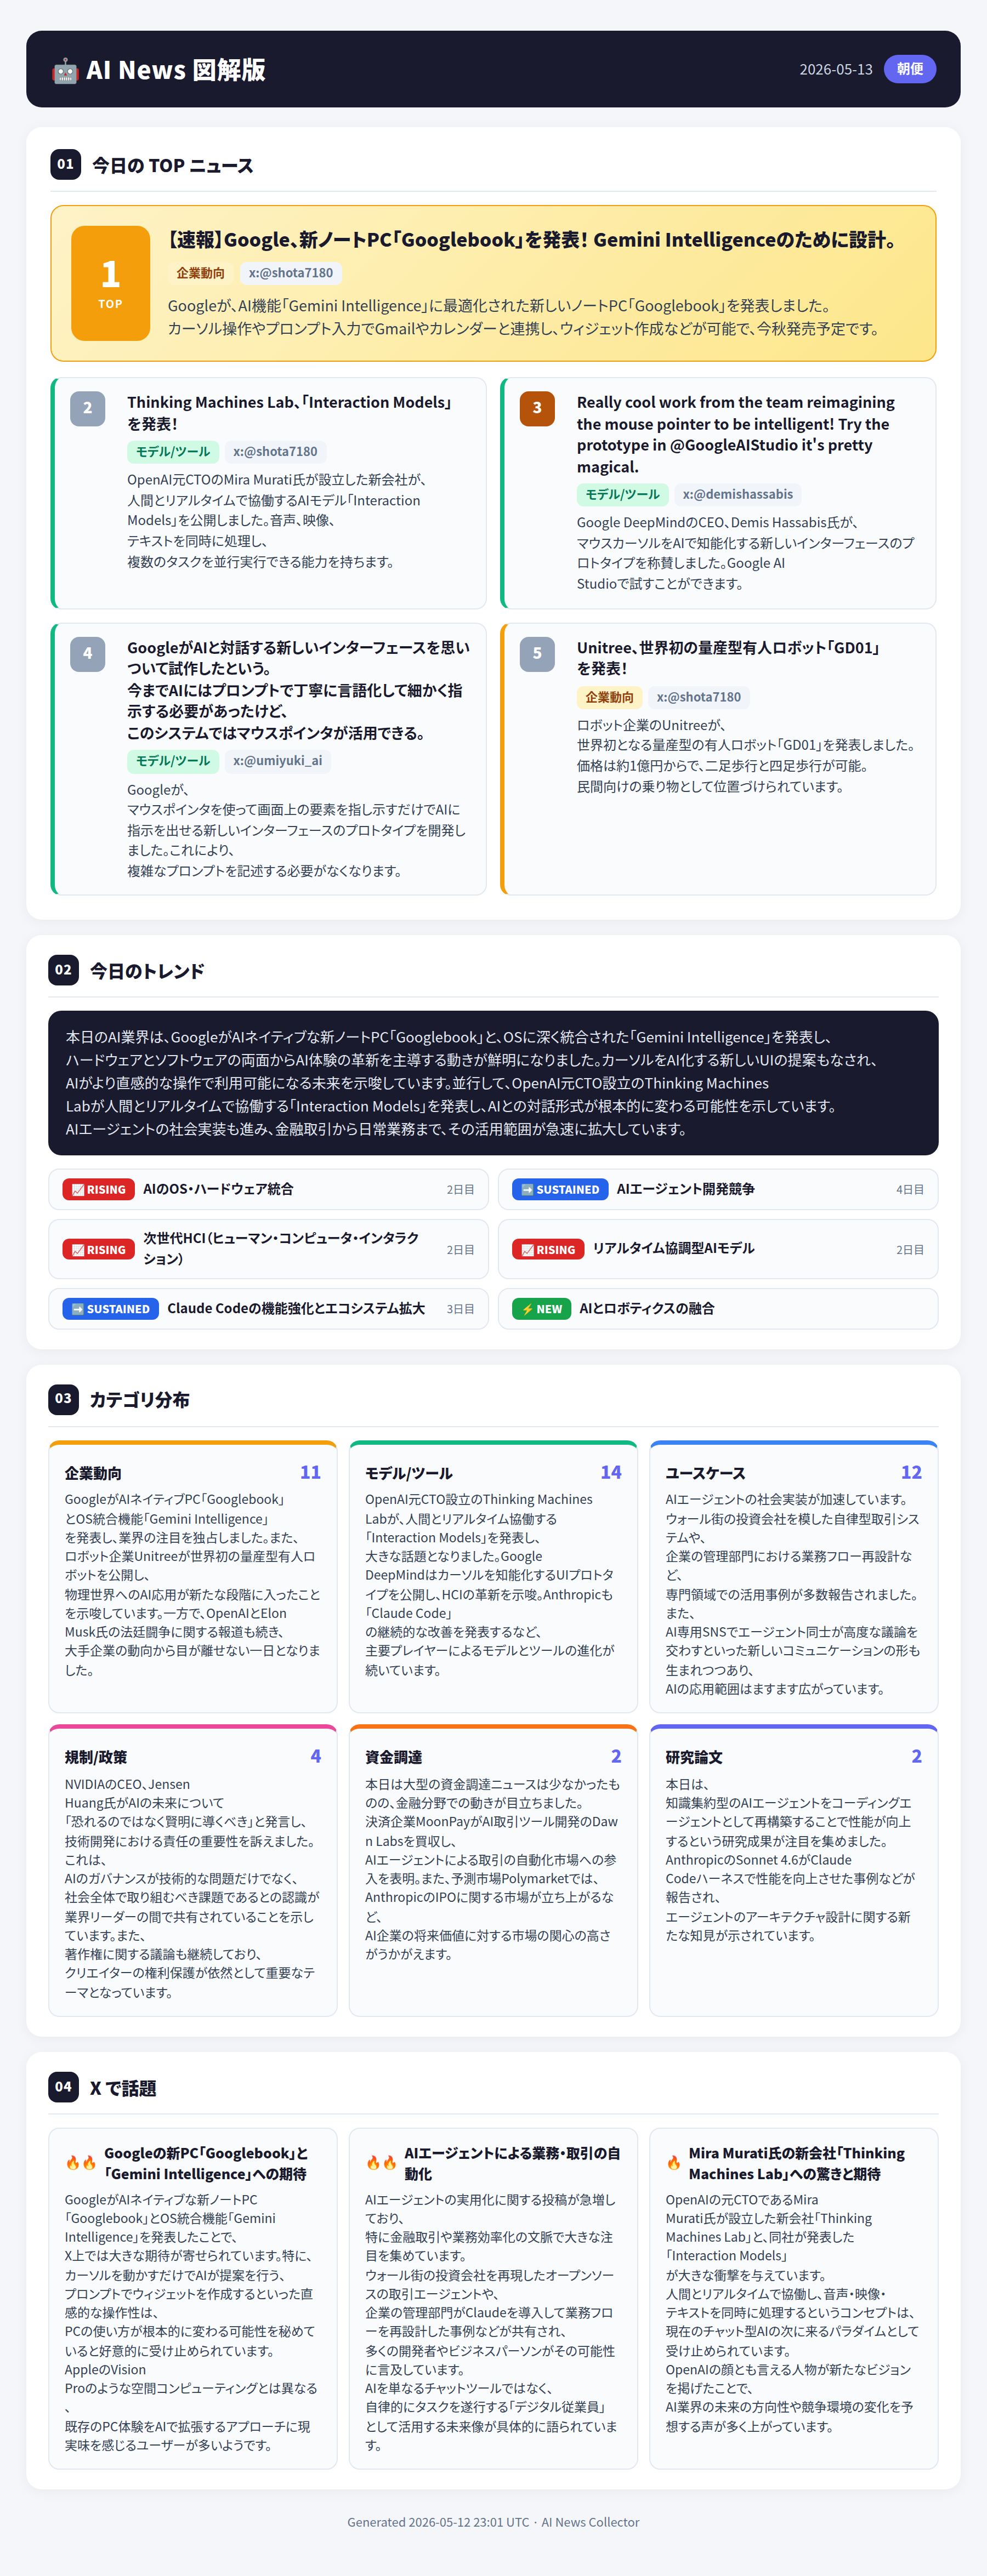
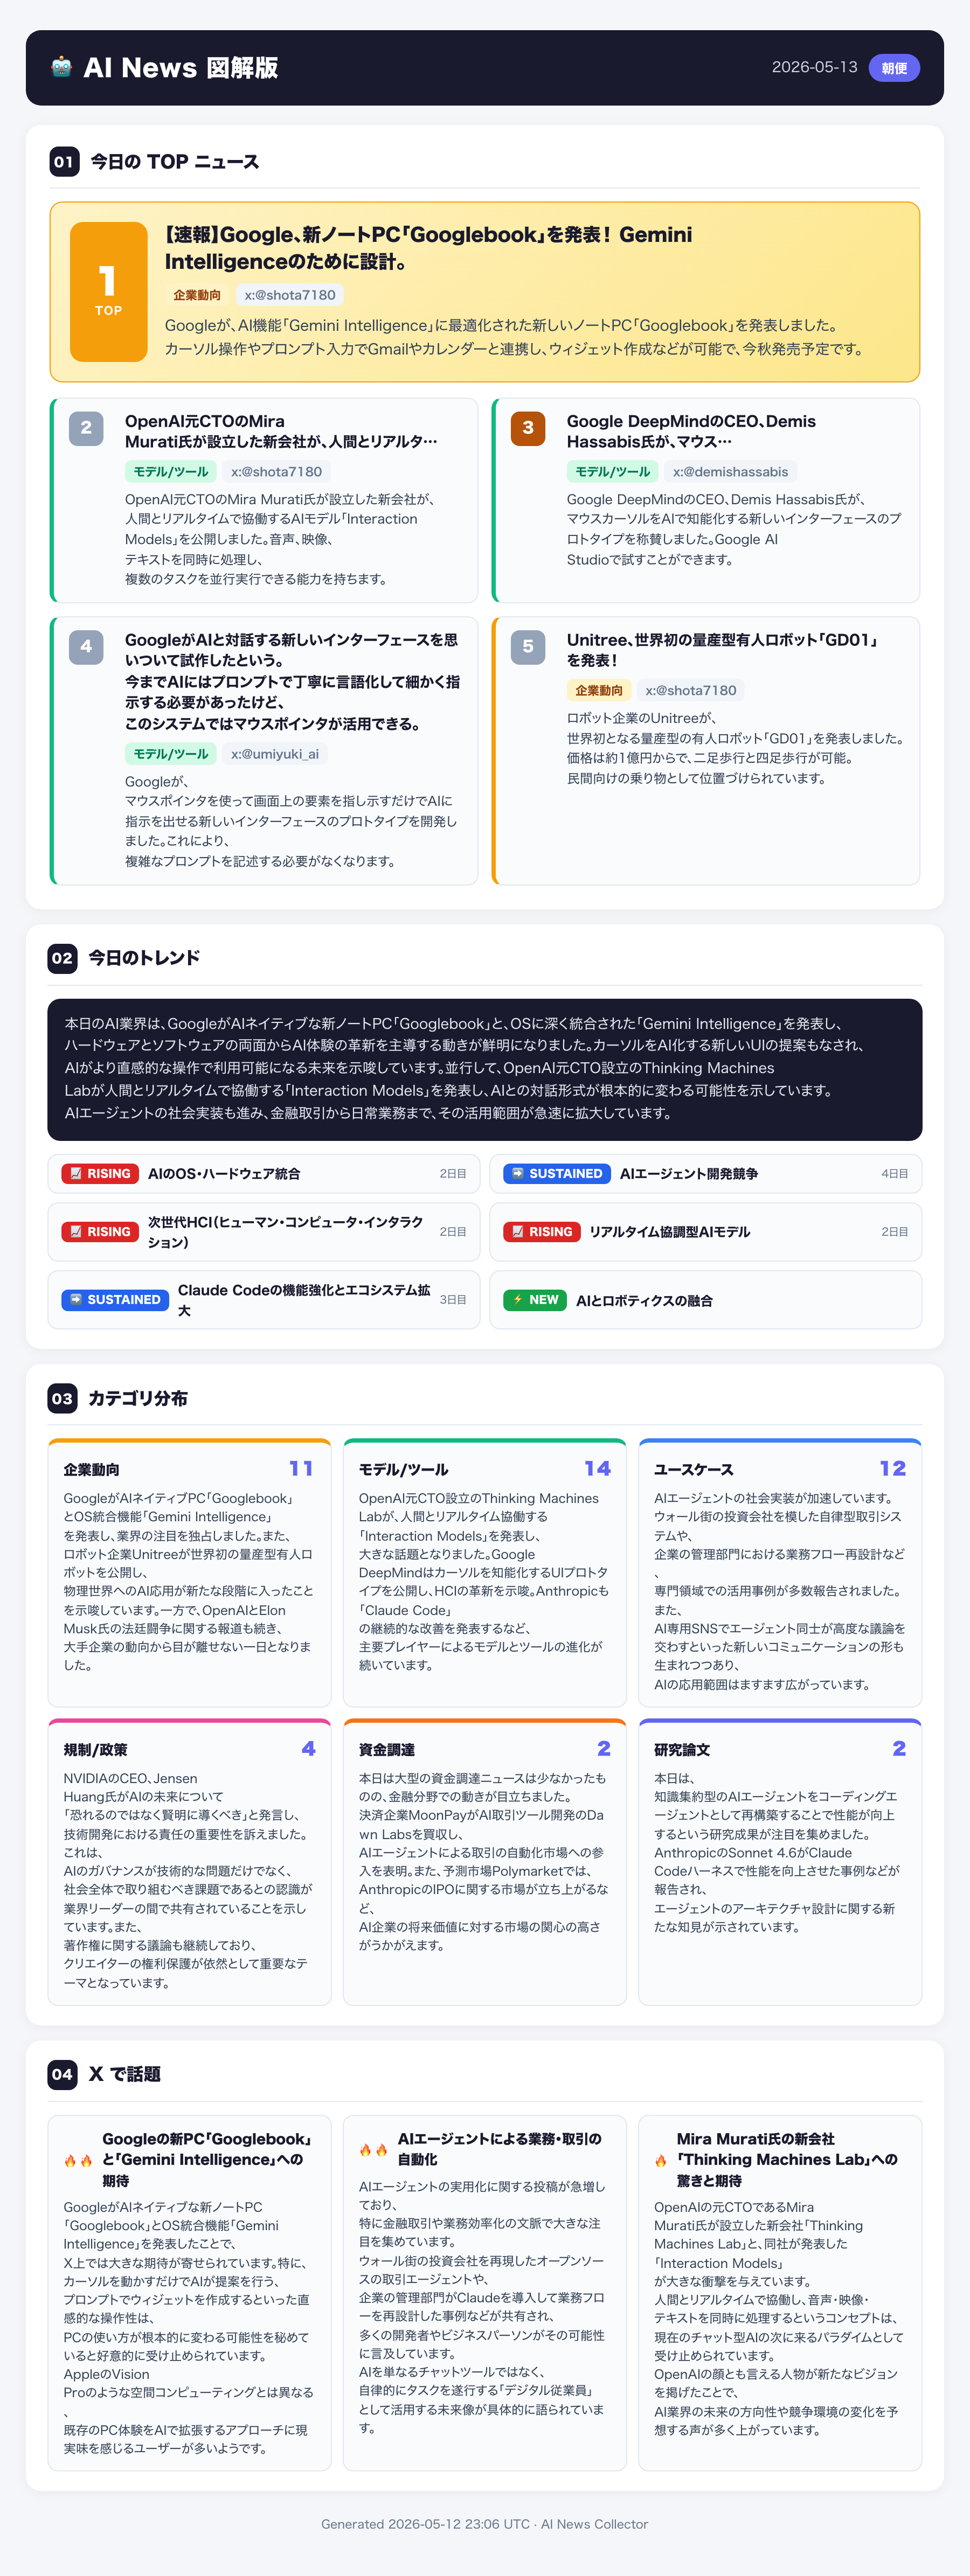
fix: 2026-05-13朝便図解を日本語タイトルで再生成

diff --git a/docs/diagrams/2026-05-13-morning.html b/docs/diagrams/2026-05-13-morning.html
@@ -452,7 +452,7 @@
       <div class="top-card cat-model">
         <div class="rank-badge ">2</div>
         <div class="body">
-          <div class="title">Thinking Machines Lab、「Interaction Models」を発表！</div>
+          <div class="title">OpenAI元CTOのMira Murati氏が設立した新会社が、人間とリアルタ…</div>
           <div class="tags">
             <span class="tag cat-model">モデル/ツール</span>
             <span class="tag src">x:@shota7180</span>
@@ -464,7 +464,7 @@
       <div class="top-card cat-model">
         <div class="rank-badge r3">3</div>
         <div class="body">
-          <div class="title">Really cool work from the team reimagining the mouse pointer to be intelligent! Try the prototype in @GoogleAIStudio it's pretty magical.</div>
+          <div class="title">Google DeepMindのCEO、Demis Hassabis氏が、マウス…</div>
           <div class="tags">
             <span class="tag cat-model">モデル/ツール</span>
             <span class="tag src">x:@demishassabis</span>
@@ -648,7 +648,7 @@
   
 
   <div class="footer">
-    Generated 2026-05-12 23:01 UTC · AI News Collector
+    Generated 2026-05-12 23:06 UTC · AI News Collector
     
   </div>
 